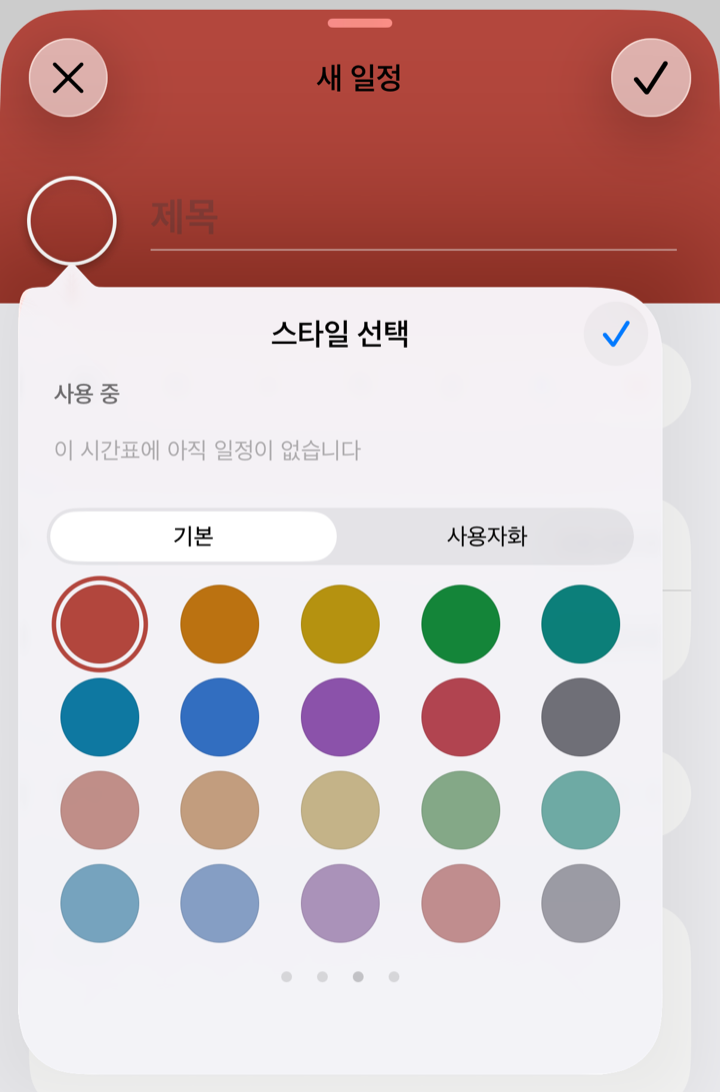
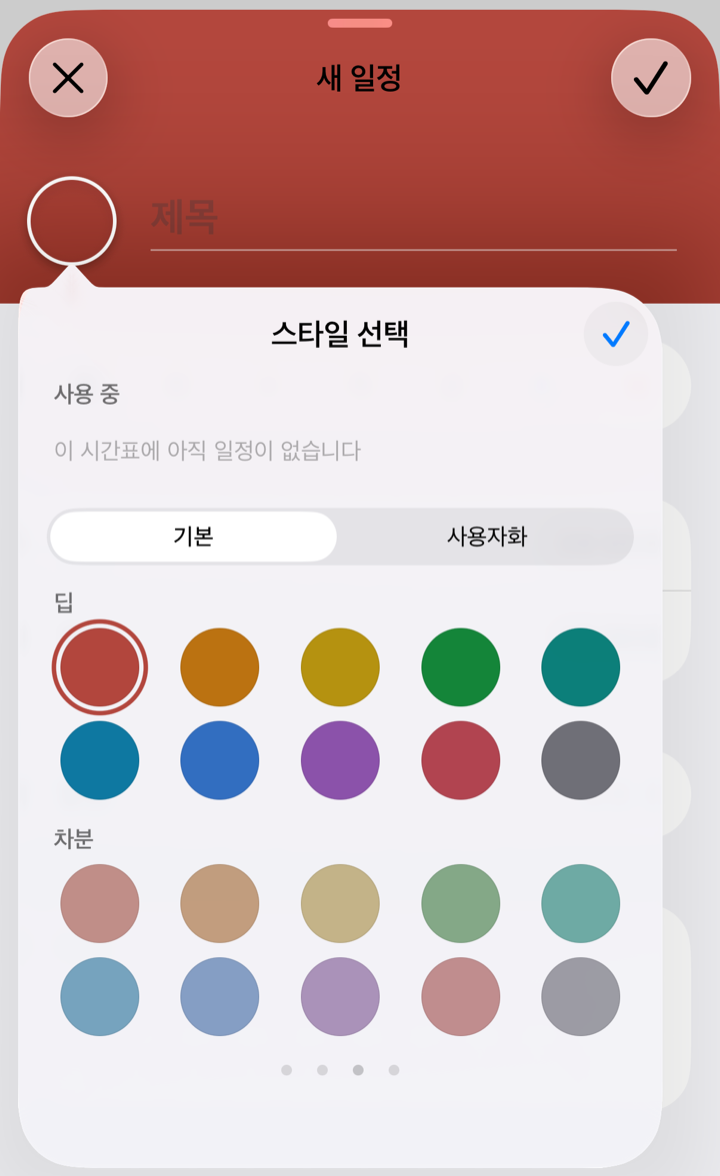
improve: blog — 세트 캡션 반영 (아이콘을 쨍하게 바꾸고 나니 앱 안 색이 탁해 보였다) (#151)

diff --git a/src/content/blog/en/2026-09-23-timetable-palette-ios-system.md b/src/content/blog/en/2026-09-23-timetable-palette-ios-system.md
@@ -54,13 +54,13 @@ Two days in, the ten pastels still felt off. The first instinct was to re-pick t
 
 The sets are not split by hue. All ten reuse the bold row's OKLCH hues (red, orange, yellow, green, mint, sky, blue, purple, pink, gray) and differ only in lightness and chroma: vivid (L 0.74 / C 0.19), candy (0.80 / 0.16), deep (0.52 / 0.15), dusty (0.68 / 0.065), mist (0.92 / 0.045), night (0.40 / 0.085). Whatever page you are on, the same column is the same family, so "a red, but calmer" is one swipe away in the first column. Yellow and orange turn olive and brown when they darken, so those two get a lightness bump of 0.03–0.14 per set; anything outside sRGB loses chroma only.
 
-![The deep and dusty page. Picking the deep red puts the ring on it and recolors the edit sheet header behind the popover.](/blog/timetable-palette-ios-system/page-deep-dusty.png)
+![The deep and dusty page, each set captioned. Picking the deep red puts the ring on it and recolors the edit sheet header behind the popover.](/blog/timetable-palette-ios-system/page-deep-dusty.png)
 
-### Two sets per page, no set names
+### Two sets per page, one name per set
 
 A page is fixed at five columns by four rows; the custom tab uses the same shape and the popover height comes from it. A set is ten colors, two rows, so one set per page would leave the bottom half empty every time. Two sets per page it is: the top two rows are one set, the bottom two another — the same grammar the first page already has with bold on top and pastel below.
 
-Captions naming the sets lost: there is no room for a caption row, and the first page has never labeled its bold and pastel rows either. The names live only in analytics, to count which sets people actually use. The dot row counts only the group you are looking at — four dots on basic, the custom page count on custom — rather than one long row that repeats what the segmented control already says.
+Set names were left out at first — no room for a caption row, and the first page had never labeled bold and pastel either. On a device, though, six sets that share every hue and differ only in lightness read as "which two rows are these again." The same afternoon each set got a one-line caption: Bold, Pastel, Vivid, Candy, Deep, Dusty, Mist, Night. "No room" had mistaken a pinned height for a fixed one; the popover height follows its content, so it grew by the two caption rows (52pt), and the caption height itself is pinned at 18pt so fonts cannot wobble the page. The first page's bold and pastel rows got captions too, so no page is the exception. The dot row still counts only the group you are looking at — four dots on basic, the custom page count on custom.
 
 ### One draft set produced the exact same hex as a pastel
 
@@ -73,4 +73,4 @@ One more from the capture probe: it compared the first swatch's x across pages u
 ## History
 
 - 2026-09-23 — bold ten to iOS system colors, pastels re-picked, yellow alone with dark text.
-- 2026-09-25 — twenty kept, basic tab paged, six recommended sets of ten (same hues, L/C only). "Bright" collided with a pastel hex → candy.
+- 2026-09-25 — twenty kept, basic tab paged, six recommended sets of ten (same hues, L/C only). "Bright" collided with a pastel hex → candy. Captions per set the same afternoon.
